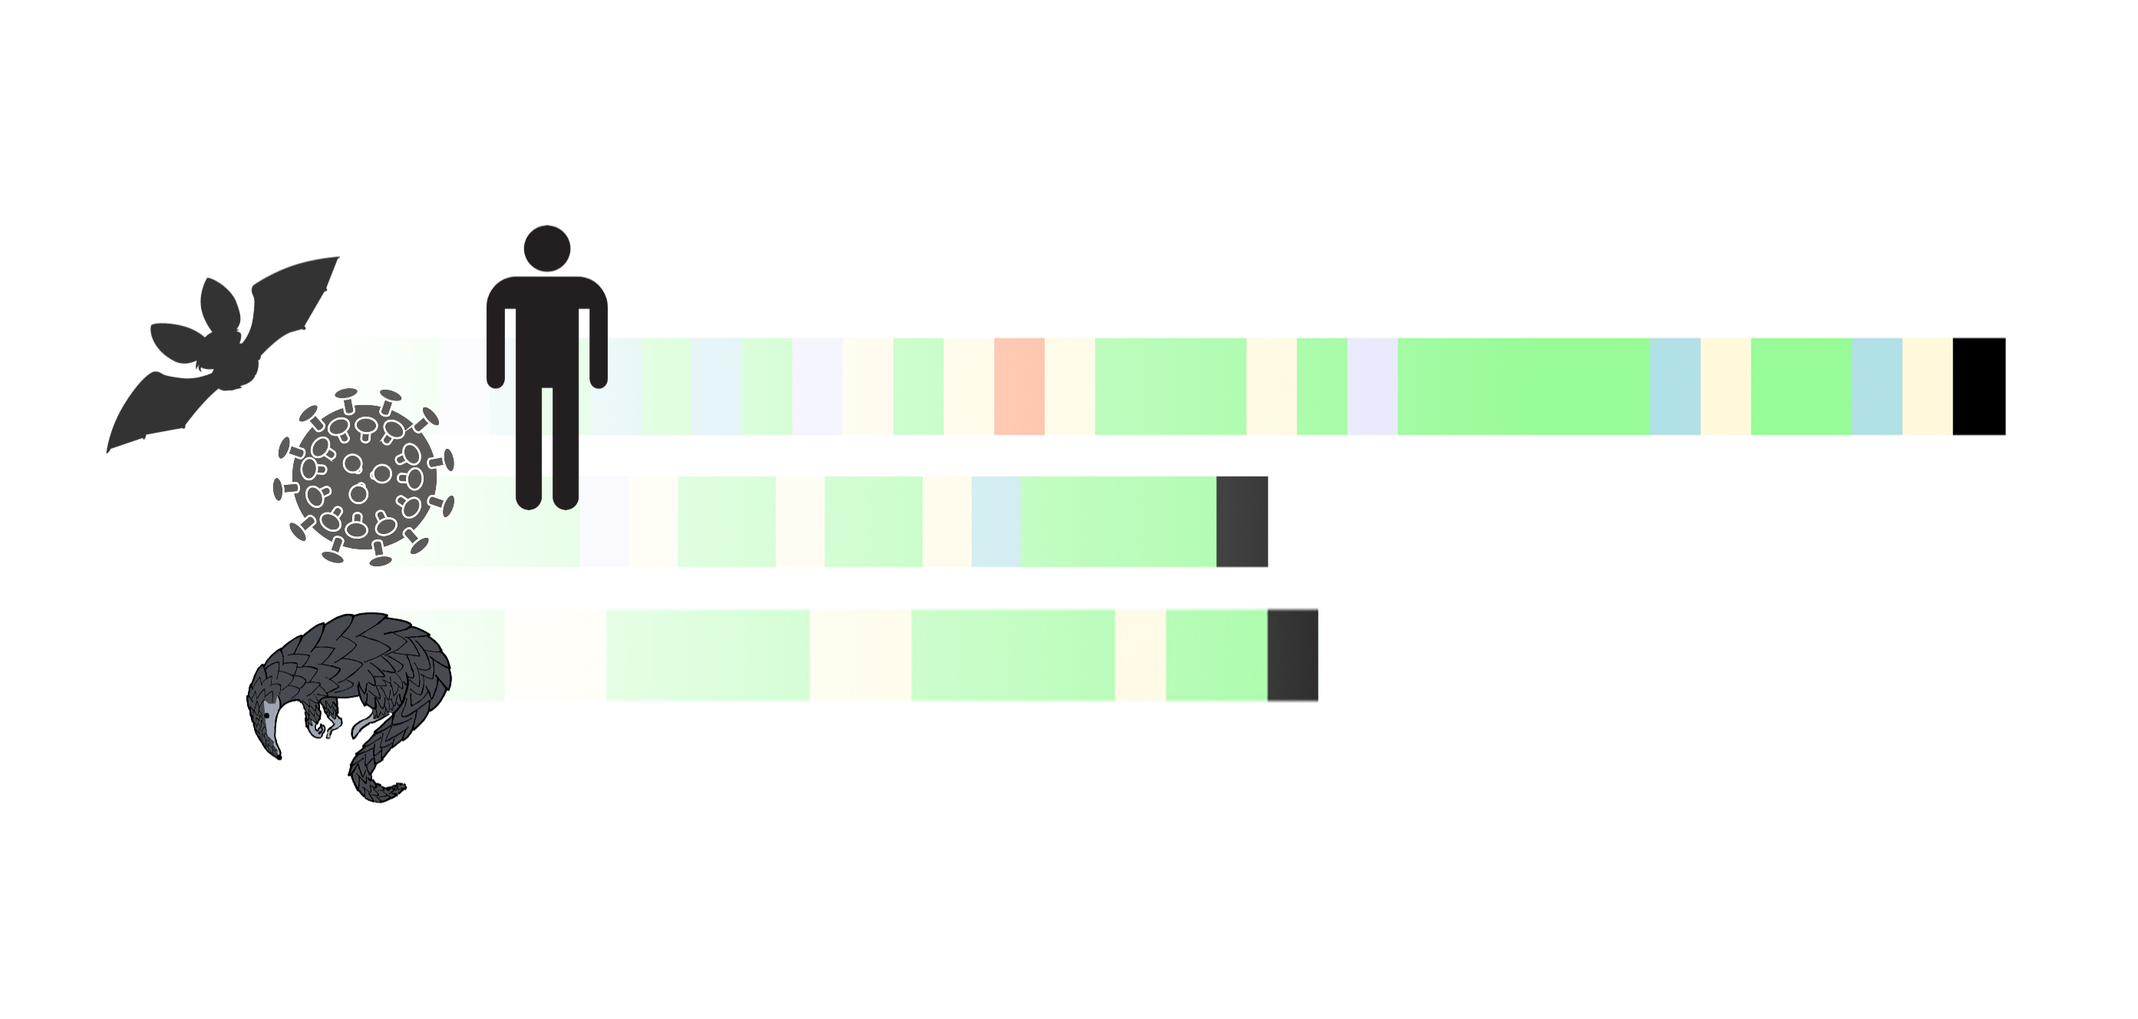
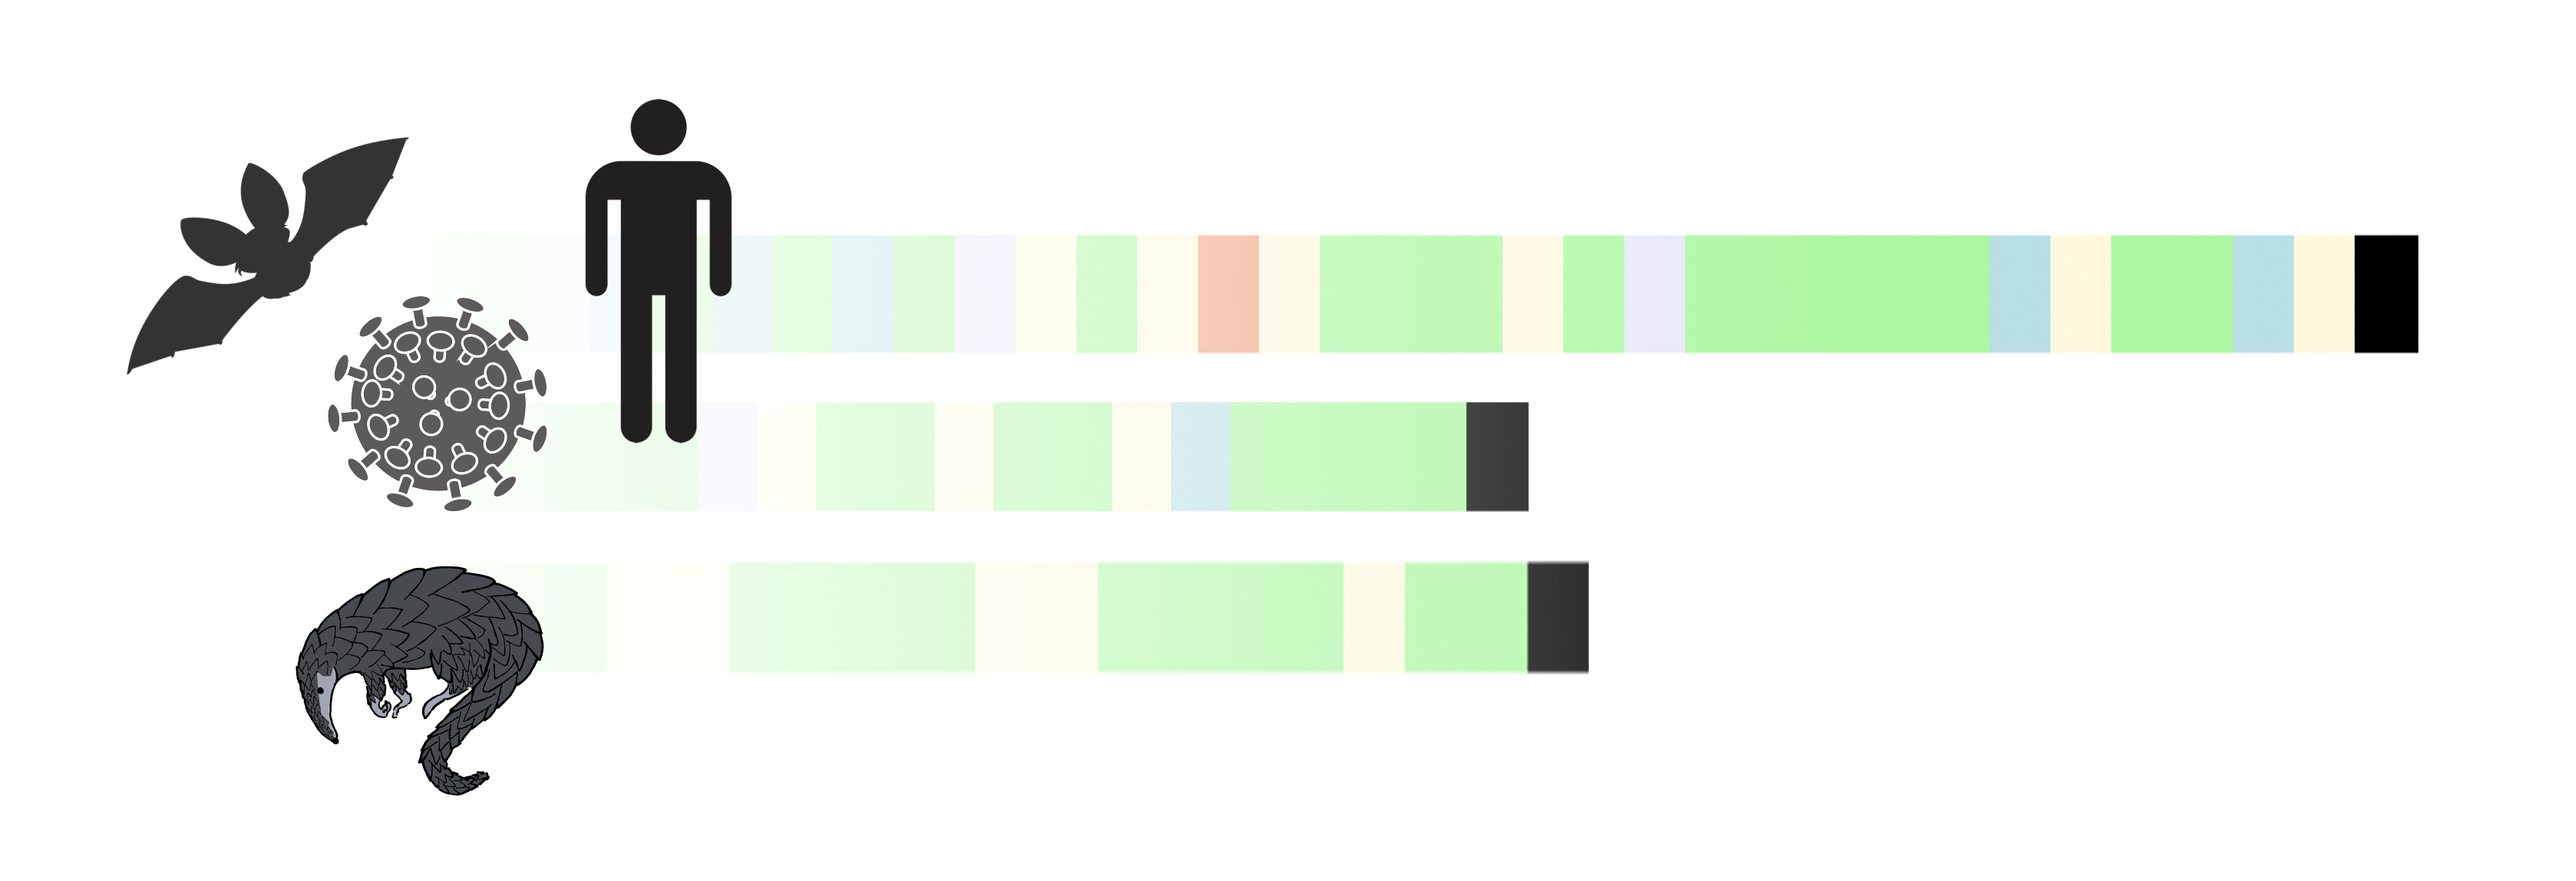
Update cover image and acknowledgments

diff --git a/README.md b/README.md
@@ -382,7 +382,7 @@ translate_nt_seq_file.pl coding_nt_seqs.fasta
 
 ## <a name="acknowledgments"></a>Acknowledgments
 
-This work was supported by a Postdoctoral Research Fellowship from Academia Sinica (to C.W.N. under P.I. Wen-Hsiung Li); funding from the Bavarian State Government and National Philanthropic Trust (to Z.A. under P.I. Siegfried Scherer); NSF IOS grants #1755370 and #1758800 (to S.-O.K.); and the University of Wisconsin-Madison John D. MacArthur Professorship Chair (to T.L.G). The authors thank the GISAID platform and the originating and submitting laboratories who kindly uploaded SARS-CoV-2 sequences to the GISAID EpiCov™ Database for public access (Supplement). The authors thank Maciej F. Boni, Reed A. Cartwright, John Flynn, Kyle Friend, Dan Graur, Robert S. Harbert, Cheryl Hayashi, David G. Karlin, Niloufar Kavian, Kin-Hang (Raven) Kok, Wen-Hsiung Li, Meiyeh Lu, David A. Matthews, Lisa Mirabello, Apurva Narechania, Felix Li Jin, and attendees of the UC Berkeley popgen journal club for useful information and discussion; Andrew E. Firth, Alexander Gorbalenya, Irwin Jungreis, Manolis Kellis, Raven Kok, Angelo Pavesi, Kei Sato, Manuela Sironi, and Noam Stern-Ginossar for an invaluable discussion regarding standardizing nomenclature; Helen Piontkivska, Patricia Wittkopp, Antonis Rokas, and one anonymous reviewer for critical suggestions; Ming-Hsueh Lin for immense feedback on figures; and special thanks to Priya Moorjani, Jacob Tennessen, Montgomery Slatkin, Yun S. Song, Jianzhi George Zhang, Xueying Li, Hongxiang Zheng, Qinqin Yu, Meredith Yeager, and Michael Dean for commenting on earlier drafts of the manuscript.
+This work was supported by a Postdoctoral Research Fellowship from Academia Sinica (to C.W.N. under P.I. Wen-Hsiung Li); funding from the Bavarian State Government and National Philanthropic Trust (to Z.A. under P.I. Siegfried Scherer); NSF IOS grants #1755370 and #1758800 (to S.-O.K.); and the University of Wisconsin-Madison John D. MacArthur Professorship Chair (to T.L.G). Copyright-free images were obtained from Pixabay. The authors thank the GISAID platform and the originating and submitting laboratories who kindly uploaded SARS-CoV-2 sequences to the GISAID EpiCov™ Database for public access (Supplement). The authors thank Maciej F. Boni, Reed A. Cartwright, John Flynn, Kyle Friend, Dan Graur, Robert S. Harbert, Cheryl Hayashi, David G. Karlin, Niloufar Kavian, Kin-Hang (Raven) Kok, Wen-Hsiung Li, Meiyeh Lu, David A. Matthews, Lisa Mirabello, Apurva Narechania, Felix Li Jin, and attendees of the UC Berkeley popgen journal club for useful information and discussion; Andrew E. Firth, Alexander Gorbalenya, Irwin Jungreis, Manolis Kellis, Raven Kok, Angelo Pavesi, Kei Sato, Manuela Sironi, and Noam Stern-Ginossar for an invaluable discussion regarding standardizing nomenclature; Helen Piontkivska, Patricia Wittkopp, Antonis Rokas, and one anonymous reviewer for critical suggestions; Ming-Hsueh Lin for immense feedback on figures; and special thanks to Priya Moorjani, Jacob Tennessen, Montgomery Slatkin, Yun S. Song, Jianzhi George Zhang, Xueying Li, Hongxiang Zheng, Qinqin Yu, Meredith Yeager, and Michael Dean for commenting on earlier drafts of the manuscript.
 
 
 ## <a name="citation"></a>Citation
